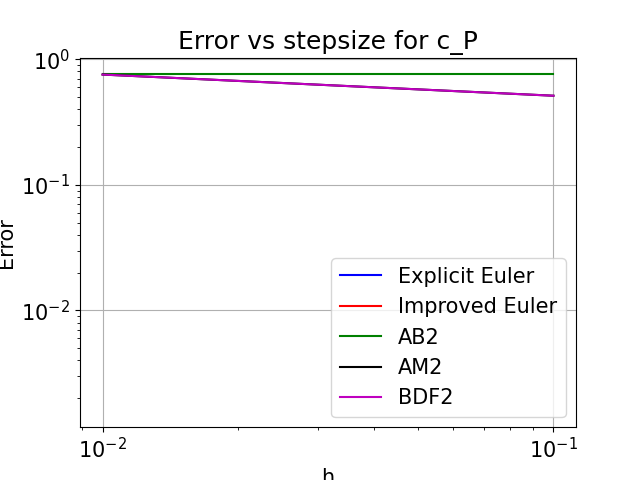
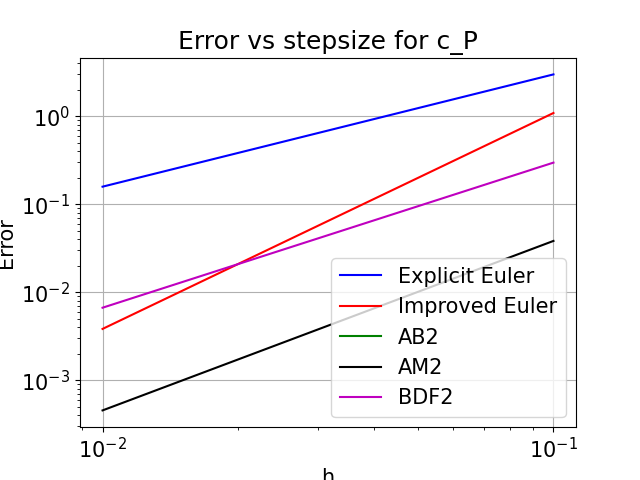
code passed YAPS so I thinkw orking"

diff --git a/Project2/source_files/exercise.py b/Project2/source_files/exercise.py
@@ -183,21 +183,23 @@ def twostep(f, Jf, y0, y1, t, a, b):
     ####################
     dim = len(y0)
     y = np.zeros((len(t), dim))
-    # print(y0)
+    # print(f"y0 is in exercise is: {y0}")
     y[0] = y0
-    # if y1 is False:
-    y1_values = []
-    if y1 == []:
-        # print(f"y1 is mepty")
-        y[1] = odeint(f, y0, t, tfirst=True)[1]
-        # y1_values = []
-        # y1_values.append(y[1])
-        # print(f"y1 generated by odeint for two step method  is: {y[1]}")
-        # We can create y1 by solve IVP here
 
-    if len(b) == 2 or b[2] == 0: # Explicity two step method
-        pass
-    else:
+    if y1 == []:
+        # print(f"y1 is empty")
+        # We can create y1 by solve IVP here
+        y_app = odeint(f, y0, t, tfirst=True)
+        y[1] = y_app[1]
+        y1 = y[1]
+
+
+    # if len(b) == 2 or b[2] == 0:  # Explicit two step method
+    #     we don't need to write separate code here, we can just set b2=0 in the implicit method and it'll work.
+
+
+
+    if(1==1):
         for n in range(len(t) - 2):
             h = t[n + 1] - t[n]
             f_n = f(t[n], y[n])
@@ -205,17 +207,21 @@ def twostep(f, Jf, y0, y1, t, a, b):
             const_S = a[0] * y[n] + a[1] * y[n + 1] - h * (b[0] * f_n + b[1] * f_n1)
 
             def F(y):
-                return a[2] * y - h * b[2] * f([t[n + 2]], y) + const_S
+                return a[2] * y - h * b[2] * f(t[n + 2], y) + const_S
 
             def JF(y):
-                return a[2] * np.identity(dim) - h * b[2] * Jf(t[n + 2], y)
+                if(callable(Jf)):
+                    return a[2] * np.identity(dim) - h * b[2] * Jf(t[n + 2], y)
+                else:
+                    return a[2] * np.identity(dim)
 
             z_initial_guess = y[n + 1]
             newton_update = 1 * np.identity(dim)  # Das ist eine vector
-            while np.linalg.norm(newton_update) < 1e-8:
+            while np.linalg.norm(newton_update) > 1e-8:
                 newton_update = np.linalg.solve(JF(z_initial_guess), F(z_initial_guess))  #
                 z_initial_guess = z_initial_guess - newton_update
             y[n + 2] = z_initial_guess
+            # print(f"y[n+2] is: {y[n+2]}")
             # y = np.array(y)
             # print(f"y1_values array is: {y1_values[0]}")
     return y
@@ -251,17 +257,16 @@ def f(t, c):
     # edit the code here#
     ####################
     cz, cc, cp = c
-    dcz_dt = (Q1 * cz0) - (Q3 * cz) - (k * V * cc * cz)
+    dcz_dt = (Q1 * cz0) - (Q3 * cz) - (k * cc * cz)
     # print(f"dcz_dt : {dcz_dt}")
 
-    dcc_dt = (Q2 * cc0) - (Q3 * cc) - (k * V * cc * cz)
+    dcc_dt = (Q2 * cc0) - (Q3 * cc) - (k  * cc * cz)
     # print(f"dcc_dt: {dcc_dt}")
 
     dcp_dt = 0 - (Q3 * cp) + 2 * k * cc * cz
     # print(f"dcc_dt: {dcc_dt}")
     dcdt = [dcz_dt, dcc_dt, dcp_dt]
     dcdt = np.array(dcdt)
-
     return dcdt
 
 
@@ -298,10 +303,10 @@ def Jf(t, c):
     ####################
     cz, cc, cp = c
     dfdc = [
-        -Q3/V - k*cc, -k*cz , 0,
-        -k*cc, -Q3/V - k*cz, 0,
-        2*k*cc, 2*k*cz, -Q3
+        -Q3 / V - k * cc, -k * cz, 0,
+        -k * cc, -Q3 / V - k * cz, 0,
+        2 * k * cc, 2 * k * cz, -Q3
     ]
 
-    dfdc = np.array(dfdc)
-    return  dfdc
+    dfdc = np.array(dfdc).reshape(3, 3)
+    return dfdc

diff --git a/Project2/source_files/__main__.py b/Project2/source_files/__main__.py
@@ -41,46 +41,51 @@ for i in range(len(h)):
     h_ = h[i]
     t = np.arange(t0, te, h_)
     t = np.append(t, te)
-
     y_app = odeint(f, y0, t, tfirst=True)
     # y1_app_values.append(y_app[1])
 
     # y1 = y_app[1]
-    print(f"y_app: {y_app[:5]}")
-
+    # print(f"y_app: {y_app[:5]}")
+    # y1 = y_app[1]
+    # y1 = np.array(y1)
+    # print(f"this is what is being sent to twostep method as y1 param: {type(y1)}")
     y_euler_expl = euler_expl(f, y0, t)
     if y_euler_expl is not None:
-        print(f"y_euler_expl: {y_euler_expl[:5]}")
+        # print(f"y_euler_expl: {y_euler_expl[:5]}")
+        pass
     else:
         print("y_euler_expl is empty")
 
     y_euler_impr = euler_impr(f, y0, t)
     if y_euler_impr is not None:
-        print(f"y_euler_impr: {y_euler_impr[:5]}")
+        # print(f"y_euler_impr: {y_euler_impr[:5]}")
+        pass
     else:
         print("y_euler_impr is empty")
-
     y_AB2 = twostep(f, [], y0, [], t, a_AB2, b_AB2)
     if y_AB2 is not None:
-        print(f"f{y_AB2}: {y_AB2[:5]}")
+        # print(f"f{y_AB2}: {y_AB2[:5]}")
+        pass
     else:
         print("y_ABE is empty")
 
     y_AM2 = twostep(f, Jf, y0, [], t, a_AM2, b_AM2)
     if y_AM2 is not None:
-        print(f"y_AME: {y_AM2[:5]}")
+        # print(f"y_AME: {y_AM2[:5]}")
+        pass
     else:
         print("y_AME is emtpy")
 
     y_BDF2 = twostep(f, Jf, y0, [], t, a_BDF2, b_BDF2)
     if y_BDF2 is not None:
-        print(f"y_BDFE: {y_BDF2[:5]}")
+        pass
+        # return print(f"y_BDFE: {y_BDF2[:5]}")
     else:
         print("y_BDF2 is empty")
 
     col = 2
-    print(f"y_euler_expl[:, col] {(y_euler_expl[:10, col])}")
-    print(f"y_app[:, col]): ({y_app[10, col]})")
+    # print(f"y_euler_expl[:, col] {(y_euler_expl[:10, col])}")
+    # print(f"y_app[:, col]): ({y_app[10, col]})")
 
 
     # absolute error for vaccine product concentration
@@ -91,8 +96,8 @@ for i in range(len(h)):
                              np.max(np.abs(y_BDF2[:, col] - y_app[:, col]))])
 
 
-    print(f"y1 using odeint is: {y_app[1]}")
-    print(f"y1 using y_AB2 is: {y_AB2[1]}")
+    # print(f"y1 using odeint is: {y_app[1]}")
+    # print(f"y1 using y_AB2 is: {y_AB2[1]}")
 
 # Display y(te) for final step size
 print(f"cp_err: {cp_err}")
@@ -126,10 +131,10 @@ fname = ['c_Z.png', 'c_C.png', 'c_P.png']
 for i in range(3):
     plt.figure()
     plt.rcParams.update({'font.size': fs})
-    # plt.plot(t,y_euler_expl[:,i],t,y_euler_impr[:,i],t,y_AB2[:,i],t,y_AM2[:,i],t,y_BDF2[:,i],t,y_app[:,i],'--k')
-    plt.plot(t, y_AM2[:, i], t, y_app[:, i], '--k')
-    # plt.legend(['Explicit Euler', 'Improved Euler', 'AB2', 'AM2', 'BDF2', 'odeint'], loc='best')
-    plt.legend(['other method', 'odeint'], loc='best')
+    plt.plot(t,y_euler_expl[:,i],t,y_euler_impr[:,i],t,y_AB2[:,i],t,y_AM2[:,i],t,y_BDF2[:,i],t,y_app[:,i],'--k')
+    # plt.plot(t, y_AM2[:, i], t, y_app[:, i], '--k')
+    plt.legend(['Explicit Euler', 'Improved Euler', 'AB2', 'AM2', 'BDF2', 'odeint'], loc='best')
+    # plt.legend(['other method', 'odeint'], loc='best')
     plt.title(title[i])
     plt.xlabel('t')
     plt.ylabel(ylabel[i])
